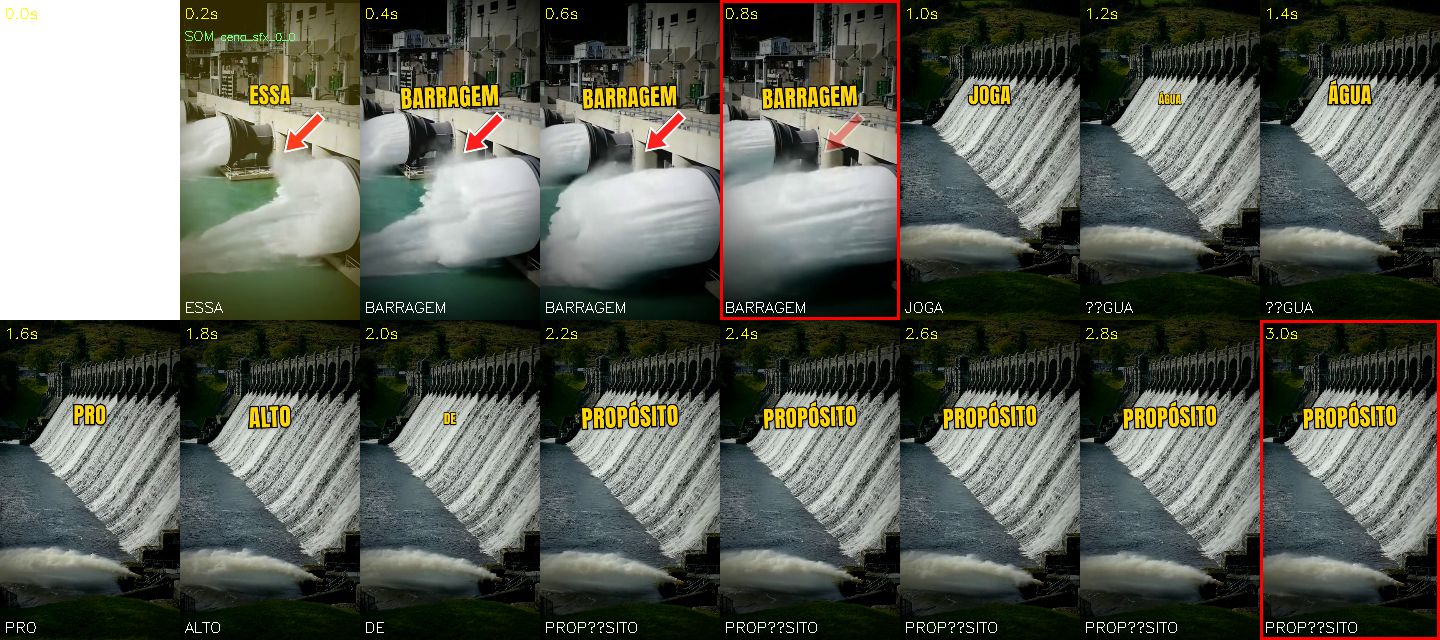
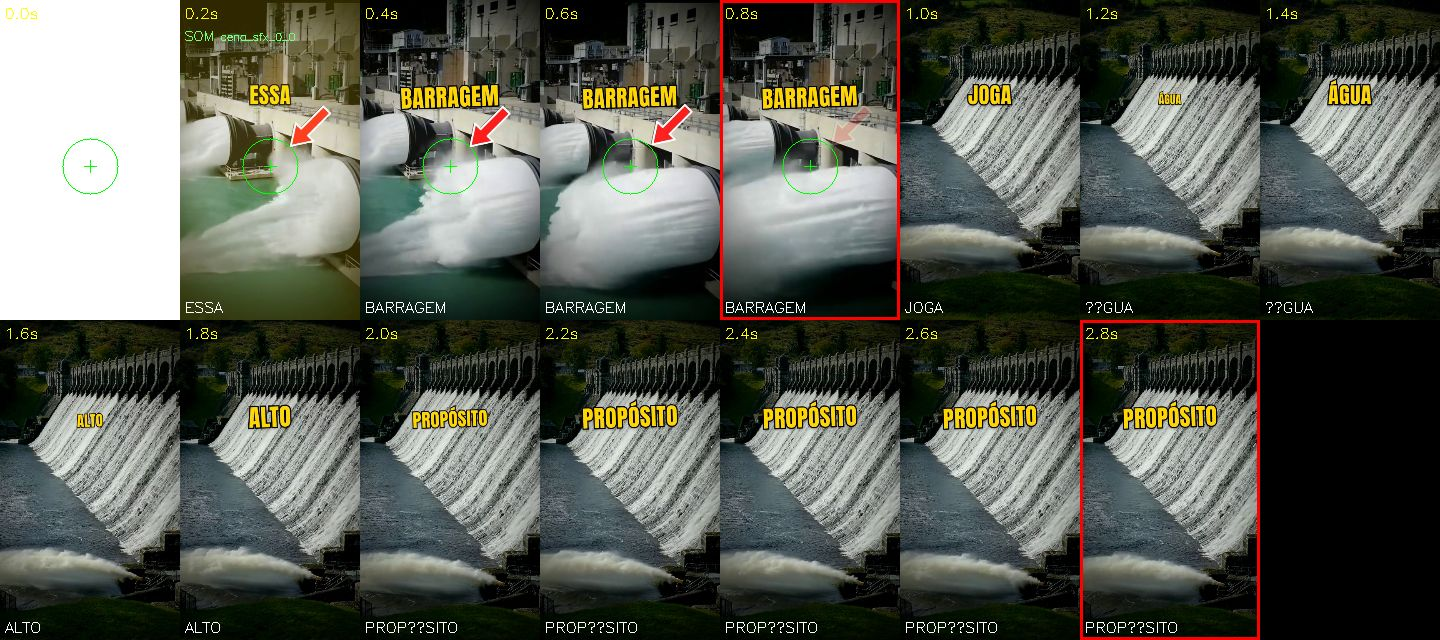
Seta com a ponta no alvo medido + mira verde na prancha (reclamação 22); vd016 seta no buraco
Claude-Session: https://claude.ai/code/session_01Pz7vxCjdPfCnR3b978TXUQ

diff --git a/remotion/src/Short.tsx b/remotion/src/Short.tsx
@@ -105,7 +105,7 @@ const SetaMarca: React.FC<{marca: Marca}> = ({marca}) => {
   const ang = lado === -1 ? 225 : 315;                   // graus: aponta para baixo, na direção do alvo
   const entra = spring({frame: local, fps, config: {damping: 13, stiffness: 160}});
   const cutuca = local > 10 ? Math.sin(((local - 10) / fps) * Math.PI * 4) * 12 : 0;
-  const dist = r * 0.6 + 30 + interpolate(entra, [0, 1], [260, 0]) + cutuca;
+  const dist = r + 12 + interpolate(entra, [0, 1], [260, 0]) + Math.abs(cutuca);   // ponta na BORDA do alvo (dono 24/11, vd016)
   const rad = (ang * Math.PI) / 180;
   const px = x - Math.cos(rad) * dist;
   const py = y + Math.sin(rad) * dist;

diff --git a/viitu/partes.py b/viitu/partes.py
@@ -55,6 +55,13 @@ def _prancha(mp4: Path, t0: float, plano: dict, saida: Path) -> None:
         cv2.putText(im, pal[:14], (4, 312), cv2.FONT_HERSHEY_SIMPLEX, 0.5, (255, 255, 255), 1)
         if any(abs(ta - c) < 0.1 for c in cortes):
             cv2.rectangle(im, (0, 0), (179, 319), (0, 0, 255), 3)          # vermelho = corte aqui
+        for m in plano.get("marcas", []):                                # mira verde = onde a seta/círculo aponta
+            q = round(ta * FPS)
+            if m["f0"] <= q < m["f1"] and m.get("pos"):
+                x, yy, r = m["pos"][min(max(q - m["cena_f0"], 0), len(m["pos"]) - 1)]
+                c, rr = (int(x / 6), int(yy / 6)), max(int(r / 6), 3)
+                cv2.circle(im, c, rr, (0, 255, 0), 1); cv2.line(im, (c[0] - 6, c[1]), (c[0] + 6, c[1]), (0, 255, 0), 1)
+                cv2.line(im, (c[0], c[1] - 6), (c[0], c[1] + 6), (0, 255, 0), 1)
         y = 40
         for ts, nome in sons:
             if ta - 0.1 <= ts < ta + 0.1:

diff --git a/edicao/reclamacoes.md b/edicao/reclamacoes.md
@@ -29,6 +29,7 @@ conferência no fim.
 | 19 | **Queda nos últimos 5 s + gancho a 73%** (vd004, 24/11) | dono: "eliminar a queda brusca" · "subir para 78%" | fecho de moral ("da próxima vez… lembra") e ~0,2 s de silêncio no fim; gancho com contexto | final na revelação ou emendando no gancho; corte no último som (−0,3 s); 1ª frase abre o loop em 1,5–2 s | R0 (vd016+) + editar |
 | 20 | **Som genérico/infantil** (24/11) | dono: "eliminar de vez qualquer som genérico, infantil ou exagerado" | pop agudo nas setas, whoosh em todo corte, efeitos quase na altura da voz | `biblioteca_sfx/` em 4 pastas + _proibidos; clique no lugar do pop; máx. 1 efeito/3 s; efeitos −12/−18 e trilha −22/−26 | mixagem + som_final |
 | 21 | **Voz lenta, efeitos baixos, sem música, imagens parecidas** (24/11, vd016) | dono: "voz precisa ser tratada… lento… efeitos baixos… não tem música… imagens muito próximas" | 2,74 pal/s (dono: 3,07); trilha −20 dB sob a voz (dono: −5); 6 clipes repetidos 2× cada; 3D de 10 s parado | `voz.ritmo` (atempo até 3,15) + R11; EQ/de-esser/compressor na voz; trilha −14, efeitos −8/−3; R1 = 1 uso por fonte; R9 corte ≤3 s (3D em vistas ≤3,5 s); R10 quadro parecido barra | voz + som_final + montagem |
+| 22 | **Seta fora do buraco** (24/11, vd016) | dono: "a seta ficou posicionada fora do buraco" | alvo da seta chutado (y 1250; o buraco estava em y ~900) e a ponta parava a 0,6r+30 px do alvo | ponta encosta na BORDA do alvo (r+12); alvo MEDIDO no quadro renderizado; a prancha das partes desenha a MIRA VERDE do alvo — conferir que a mira cai no objeto | Short.tsx + partes |
 | 9 | **Entregue sem revisar** (3x) | "parece que não foi revisado antes de ser enviado" | revisão sem critério de bloqueio | trava R1–R7 antes do render + revisar + auditoria + prancha OLHADA | montagem + revisar |
 | 10 | **Análises não aplicadas** (2x) | "você não aplicou o que seria válido?" | conhecimento ficava no Hall sem virar regra | toda análise termina com a regra escrita no arquivo do mapa (CLAUDE.md) | /analisar |
 

diff --git a/.claude/skills/editar/SKILL.md b/.claude/skills/editar/SKILL.md
@@ -38,6 +38,8 @@ aval do dono). Não renderizar planta reprovada.
    Errou → corrige o cenas.json → `editar` → `partes <p> GANCHO` de novo. Só passa para INÍCIO, MEIO, FINAL, CTA e LOOP
    com a anterior certa. Tomada curta que a triagem não lista e foi olhada quadro a quadro: `"trecho_conferido": "<motivo>"`.
    A entrega reprova se alguma parte faltar ou for mais velha que o cenas.json.
+   **Seta/círculo:** `"seta": [x, y, r]` = centro e RAIO do alvo na tela 1080x1920, MEDIDO no quadro (nunca no chute);
+   na prancha a mira verde tem que cair em cima do objeto e a ponta da seta encostar nela (reclamação 22).
 6. Render completo: `cd remotion && npm run render` →
    `cp out/short_remotion.mp4 out/<p>.mp4`. Antes do render completo, confira quadros soltos de animações novas
    (`npx remotion still src/index.ts Short <arq>.png --frame=N --scale=0.3`).
